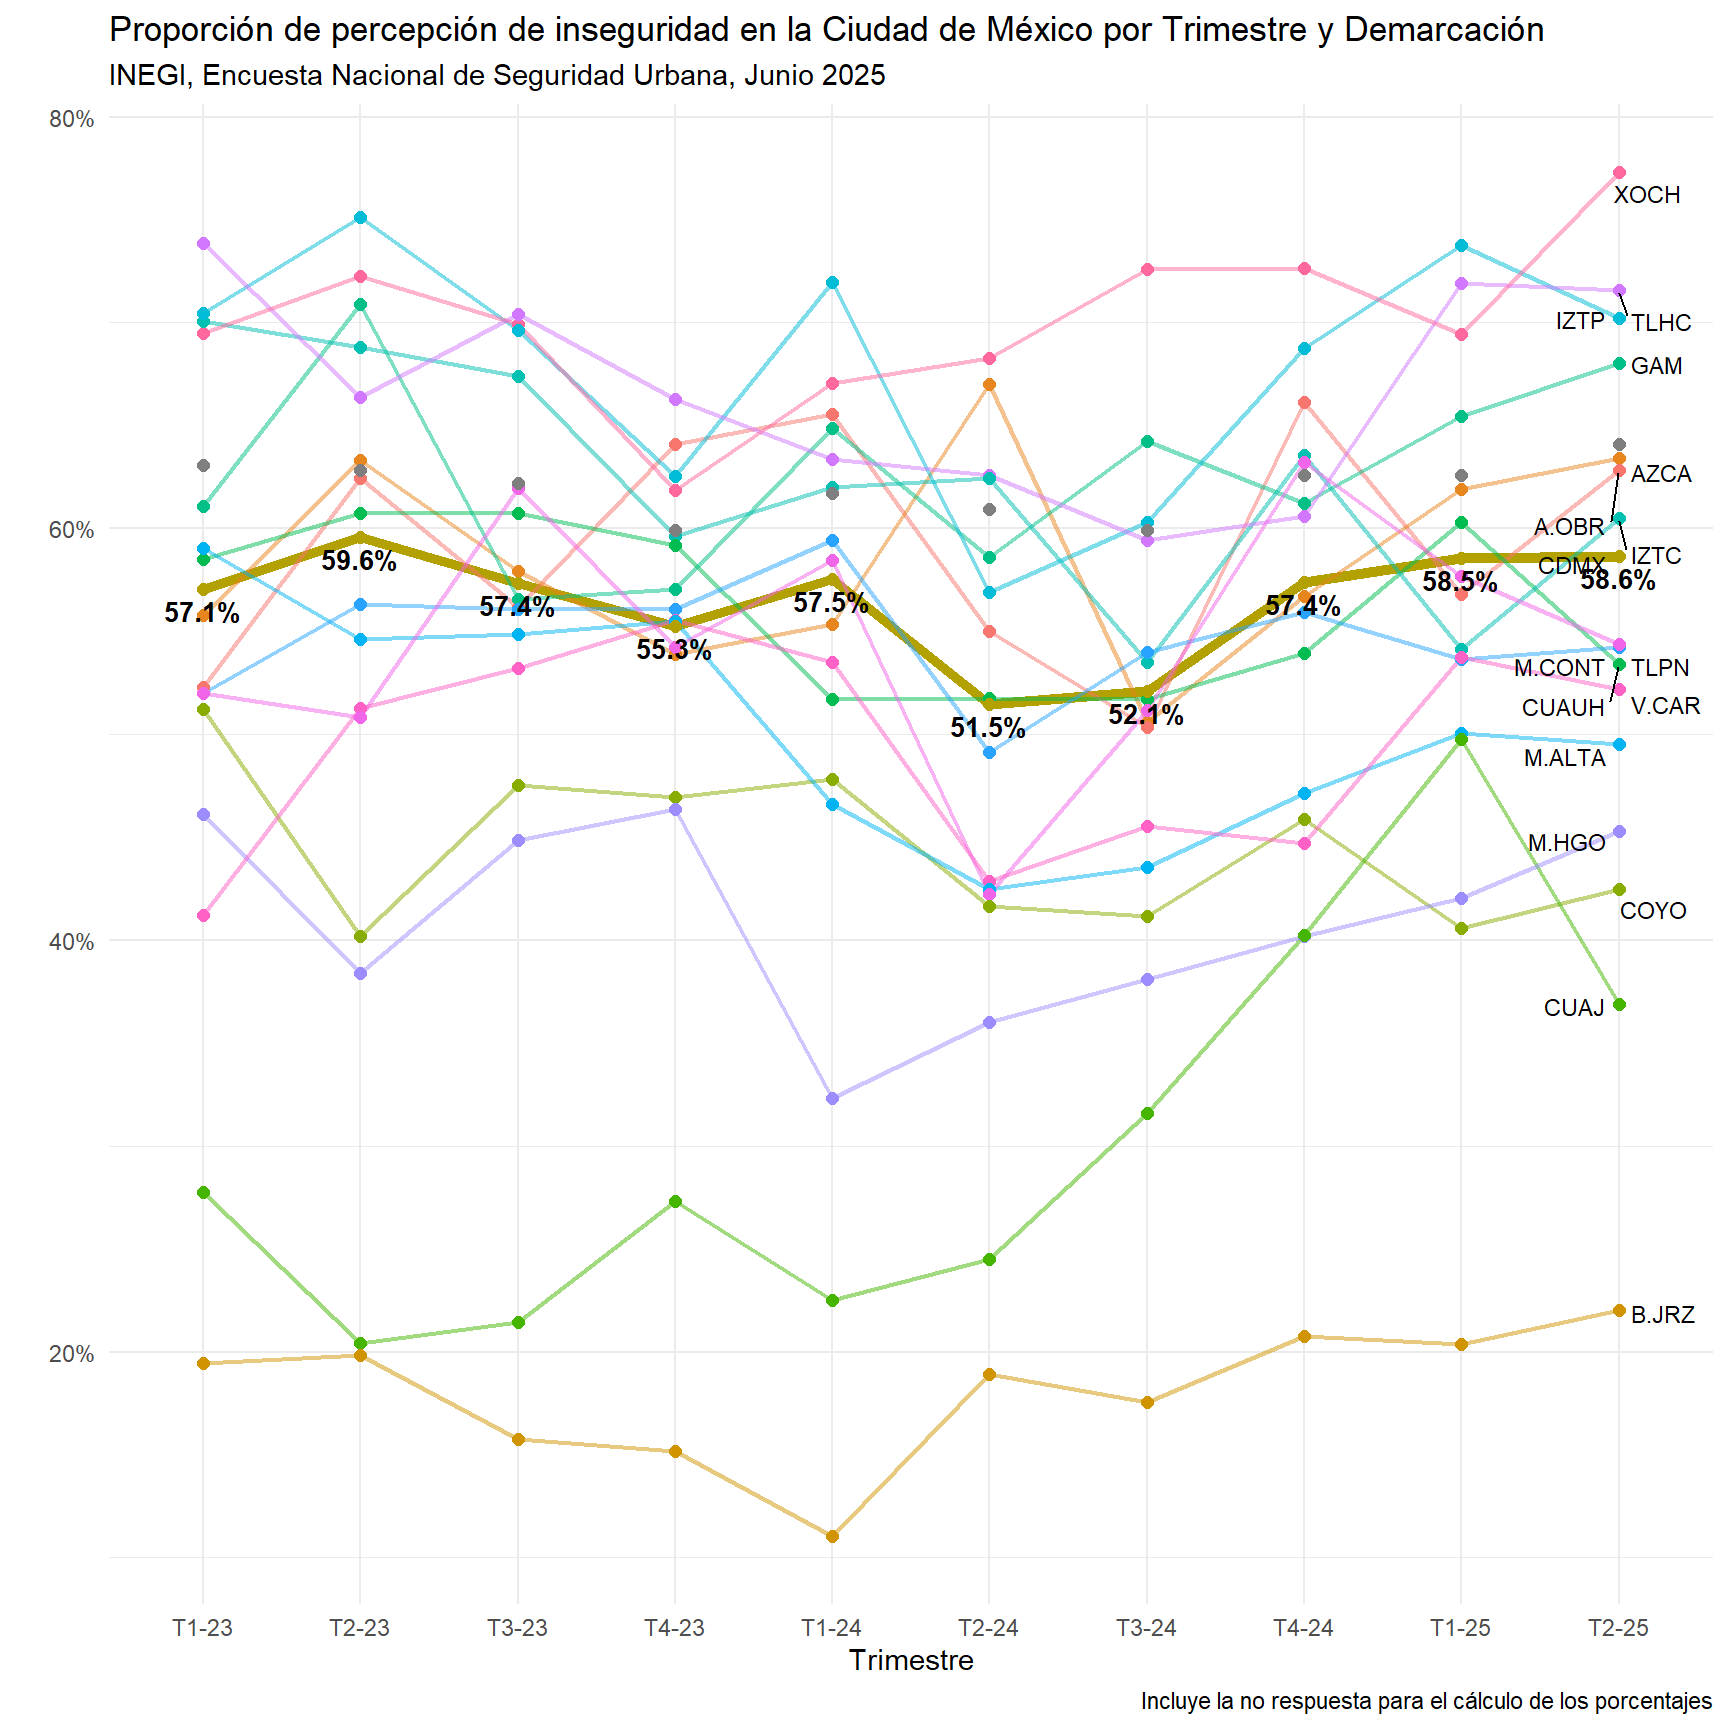
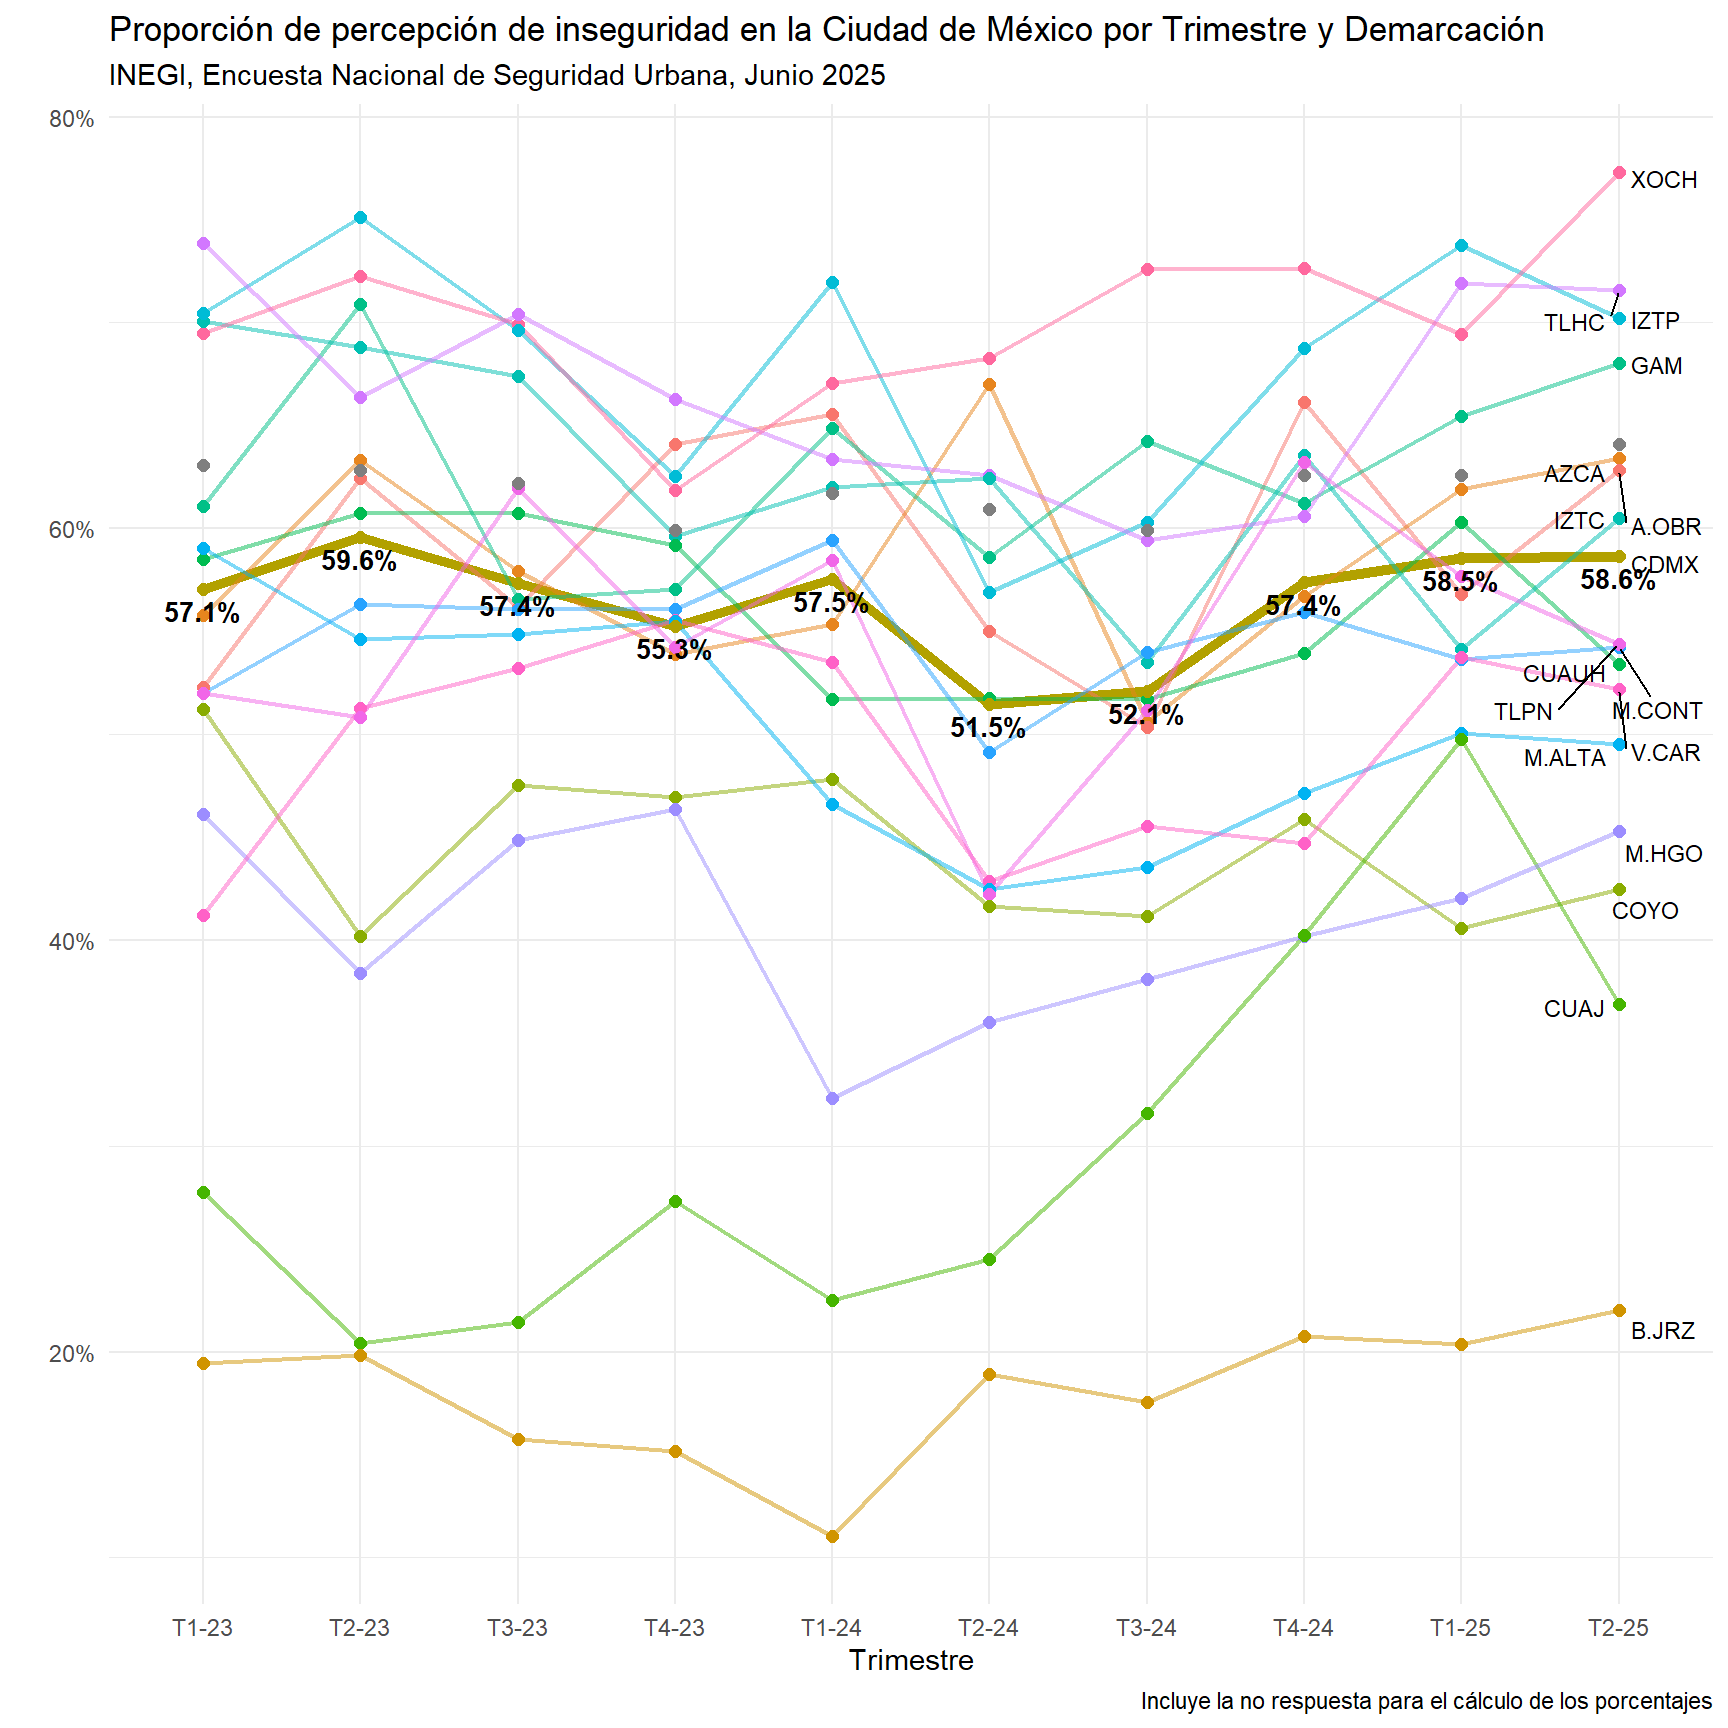
Built site for gh-pages

diff --git a/index.html b/index.html
@@ -173,7 +173,7 @@ ul.task-list li input[type="checkbox"] {
 <header id="title-block-header" class="quarto-title-block default">
 <div class="quarto-title">
 <h1 class="title">Visualizador ENSU - Gobierno de la Ciudad de México</h1>
-<p class="subtitle lead">Última actualización: Julio 2024</p>
+<p class="subtitle lead">Última actualización: Julio 2025</p>
 </div>
 
 <div>
